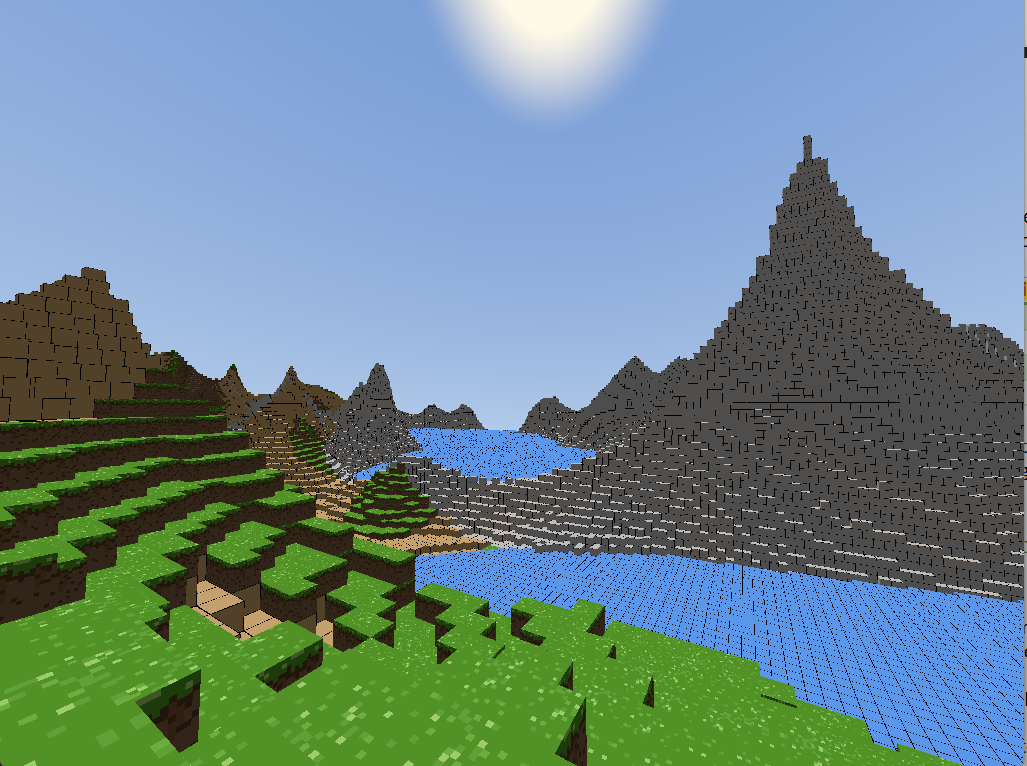
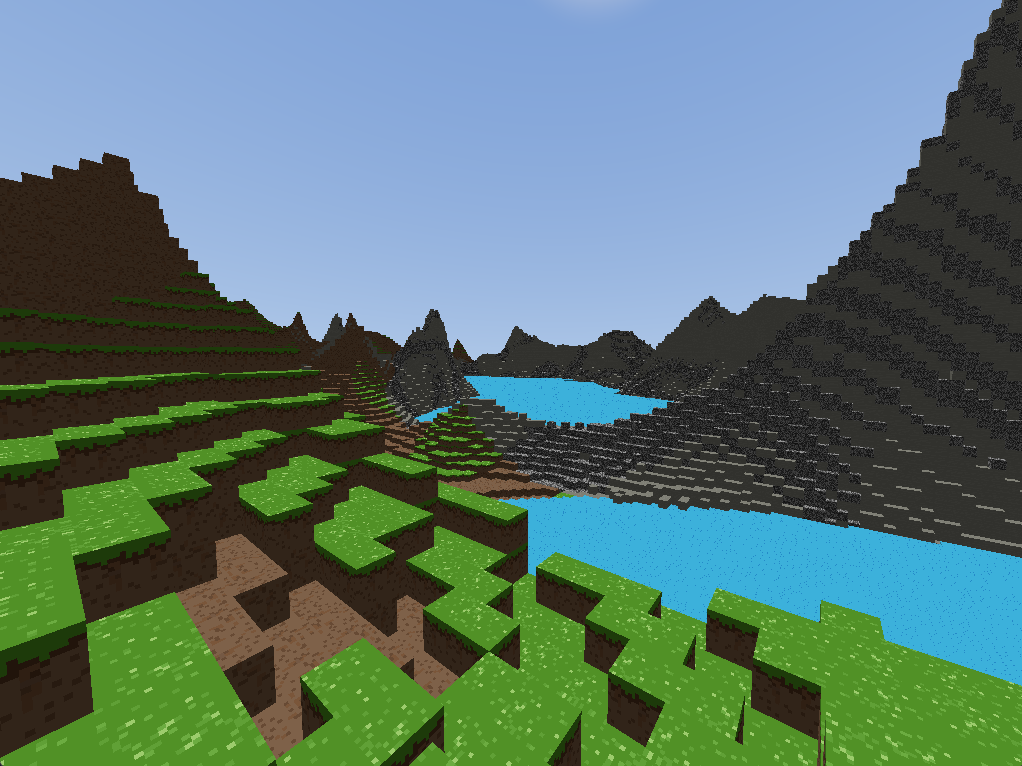
feat: added snow and gravel textures

diff --git a/src/graphical_core/texture_mapping.rs b/src/graphical_core/texture_mapping.rs
@@ -17,8 +17,8 @@ const TEXTURE_FILES: &[Option<&str>] = &[
     Some("stone.png"), // 3: Stone
     Some("water.png"), // 4: Water
     Some("sand.png"),  // 5: Sand
-    None,              // 6: Snow
-    None,              // 7: Gravel
+    Some("snow.png"),  // 6: Snow
+    Some("gravel.png"),// 7: Gravel
 ];
 
 fn get_texture_path(texture_name: &str) -> String {
